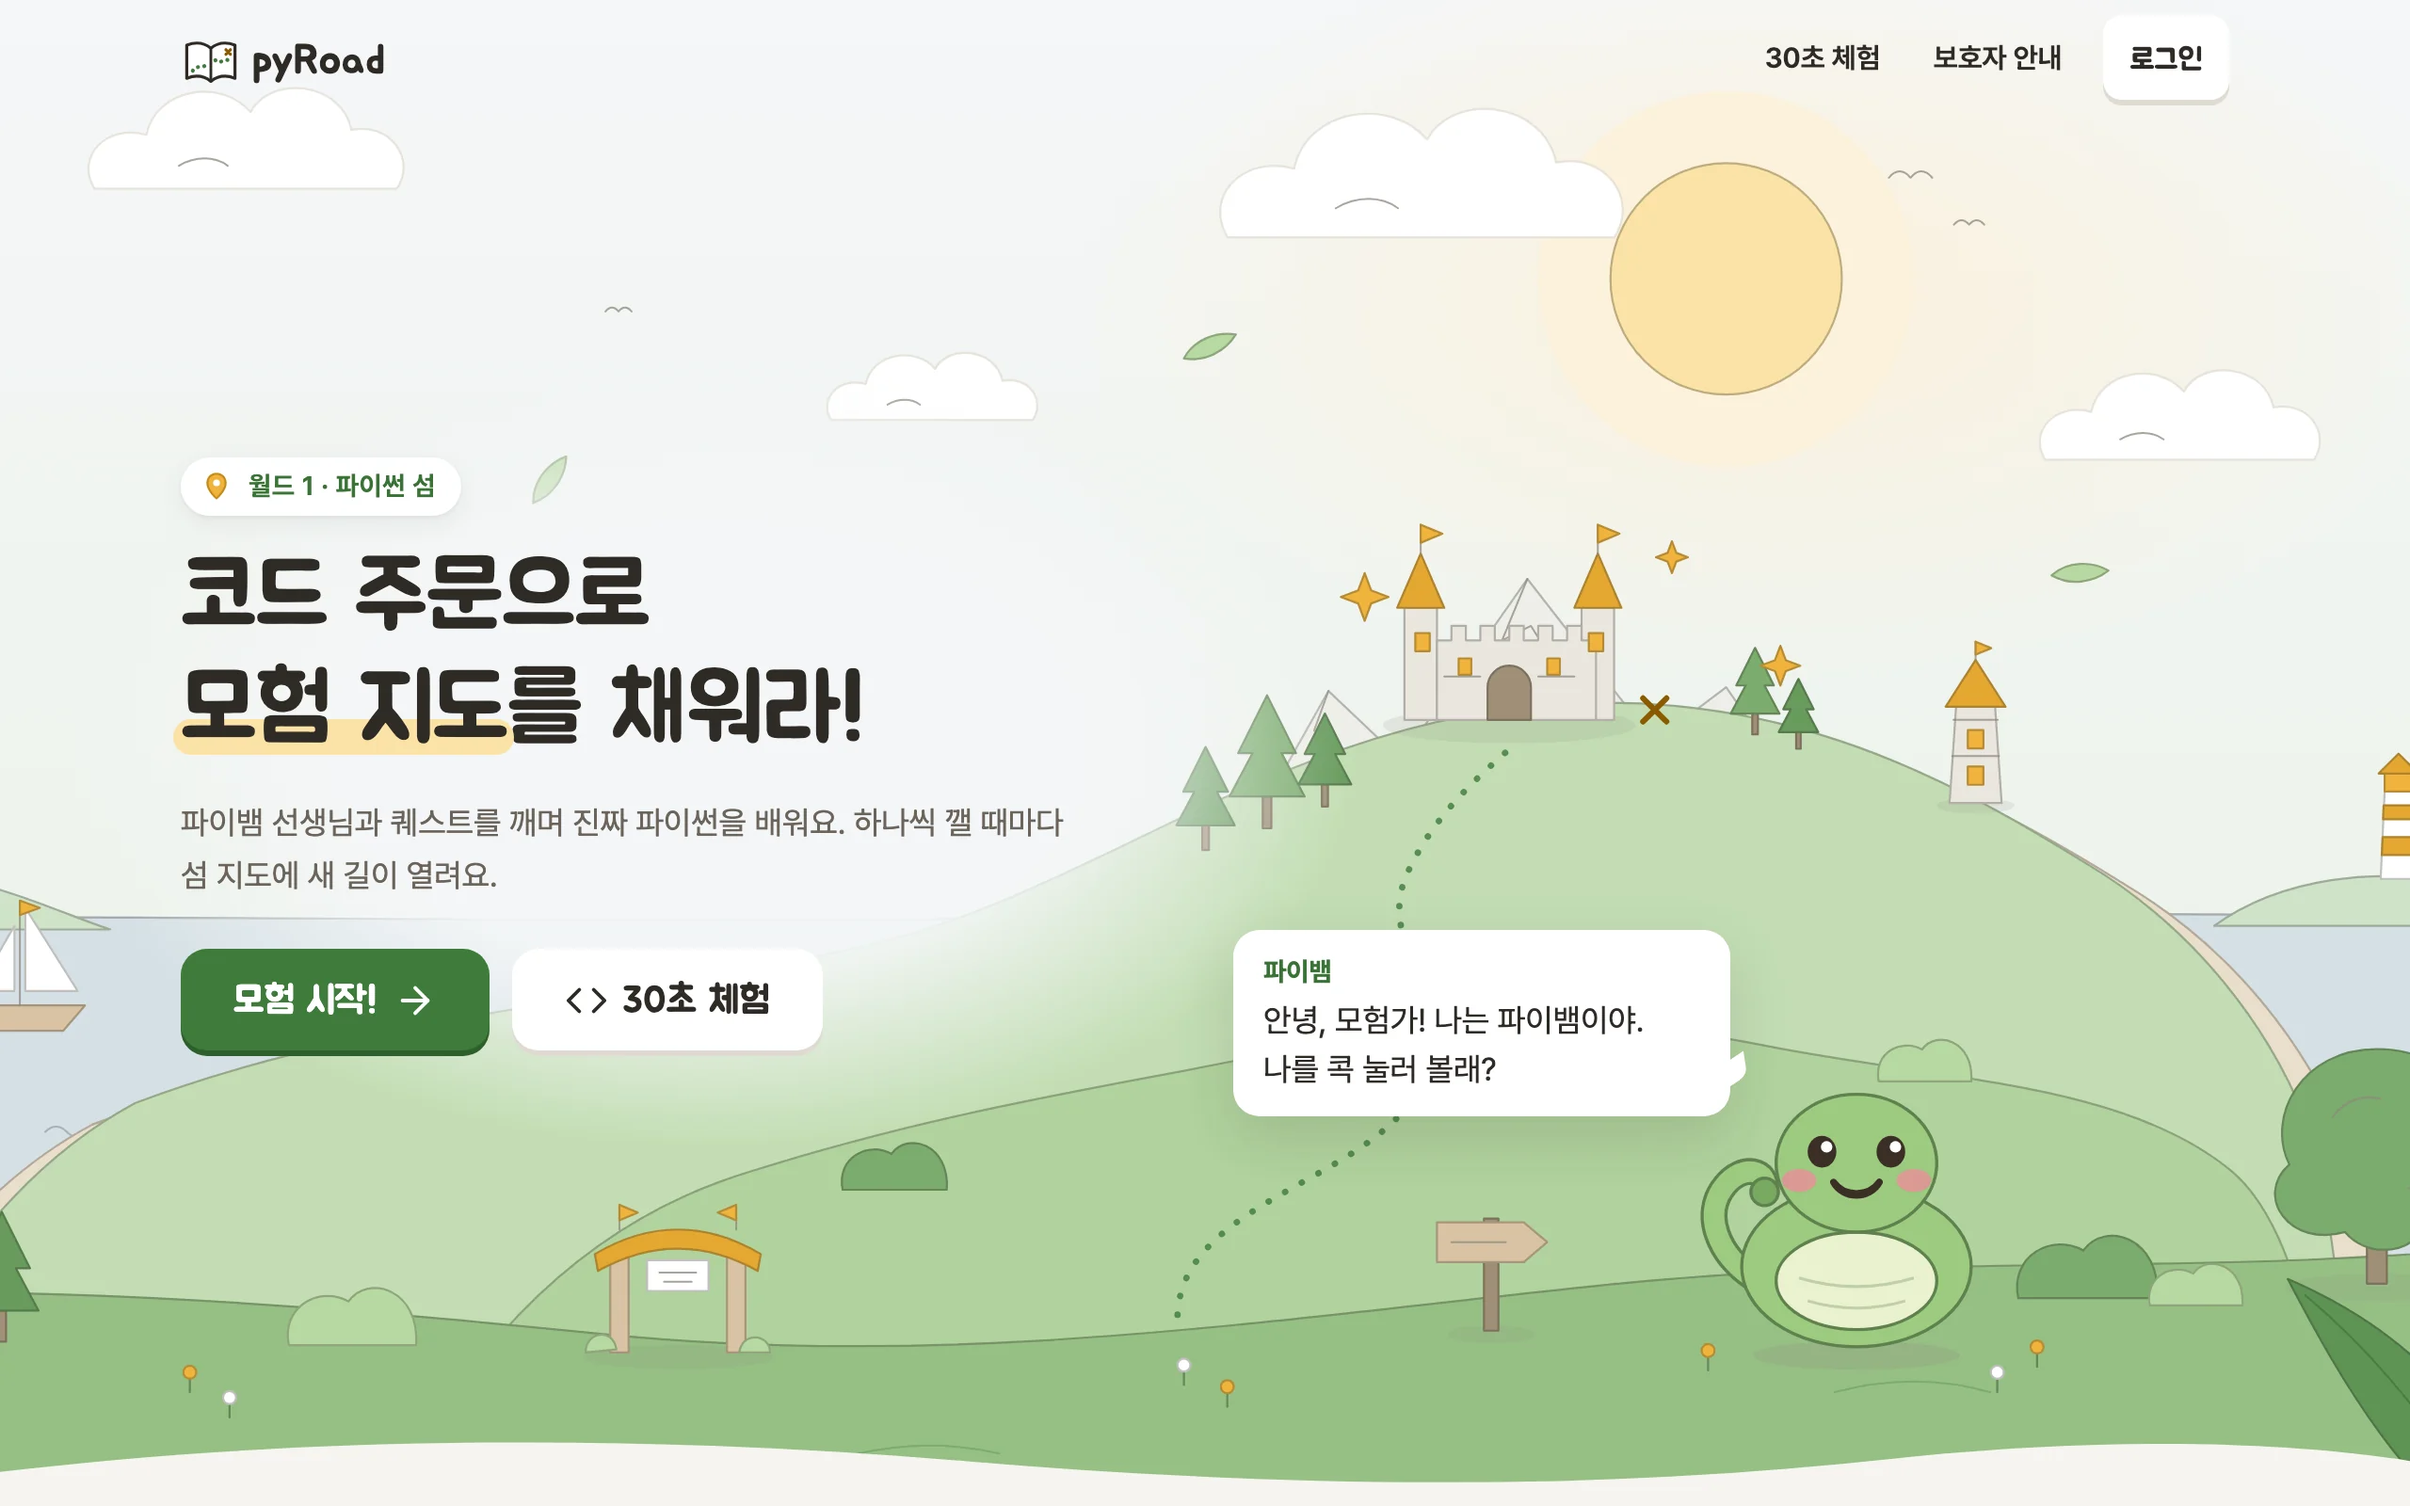
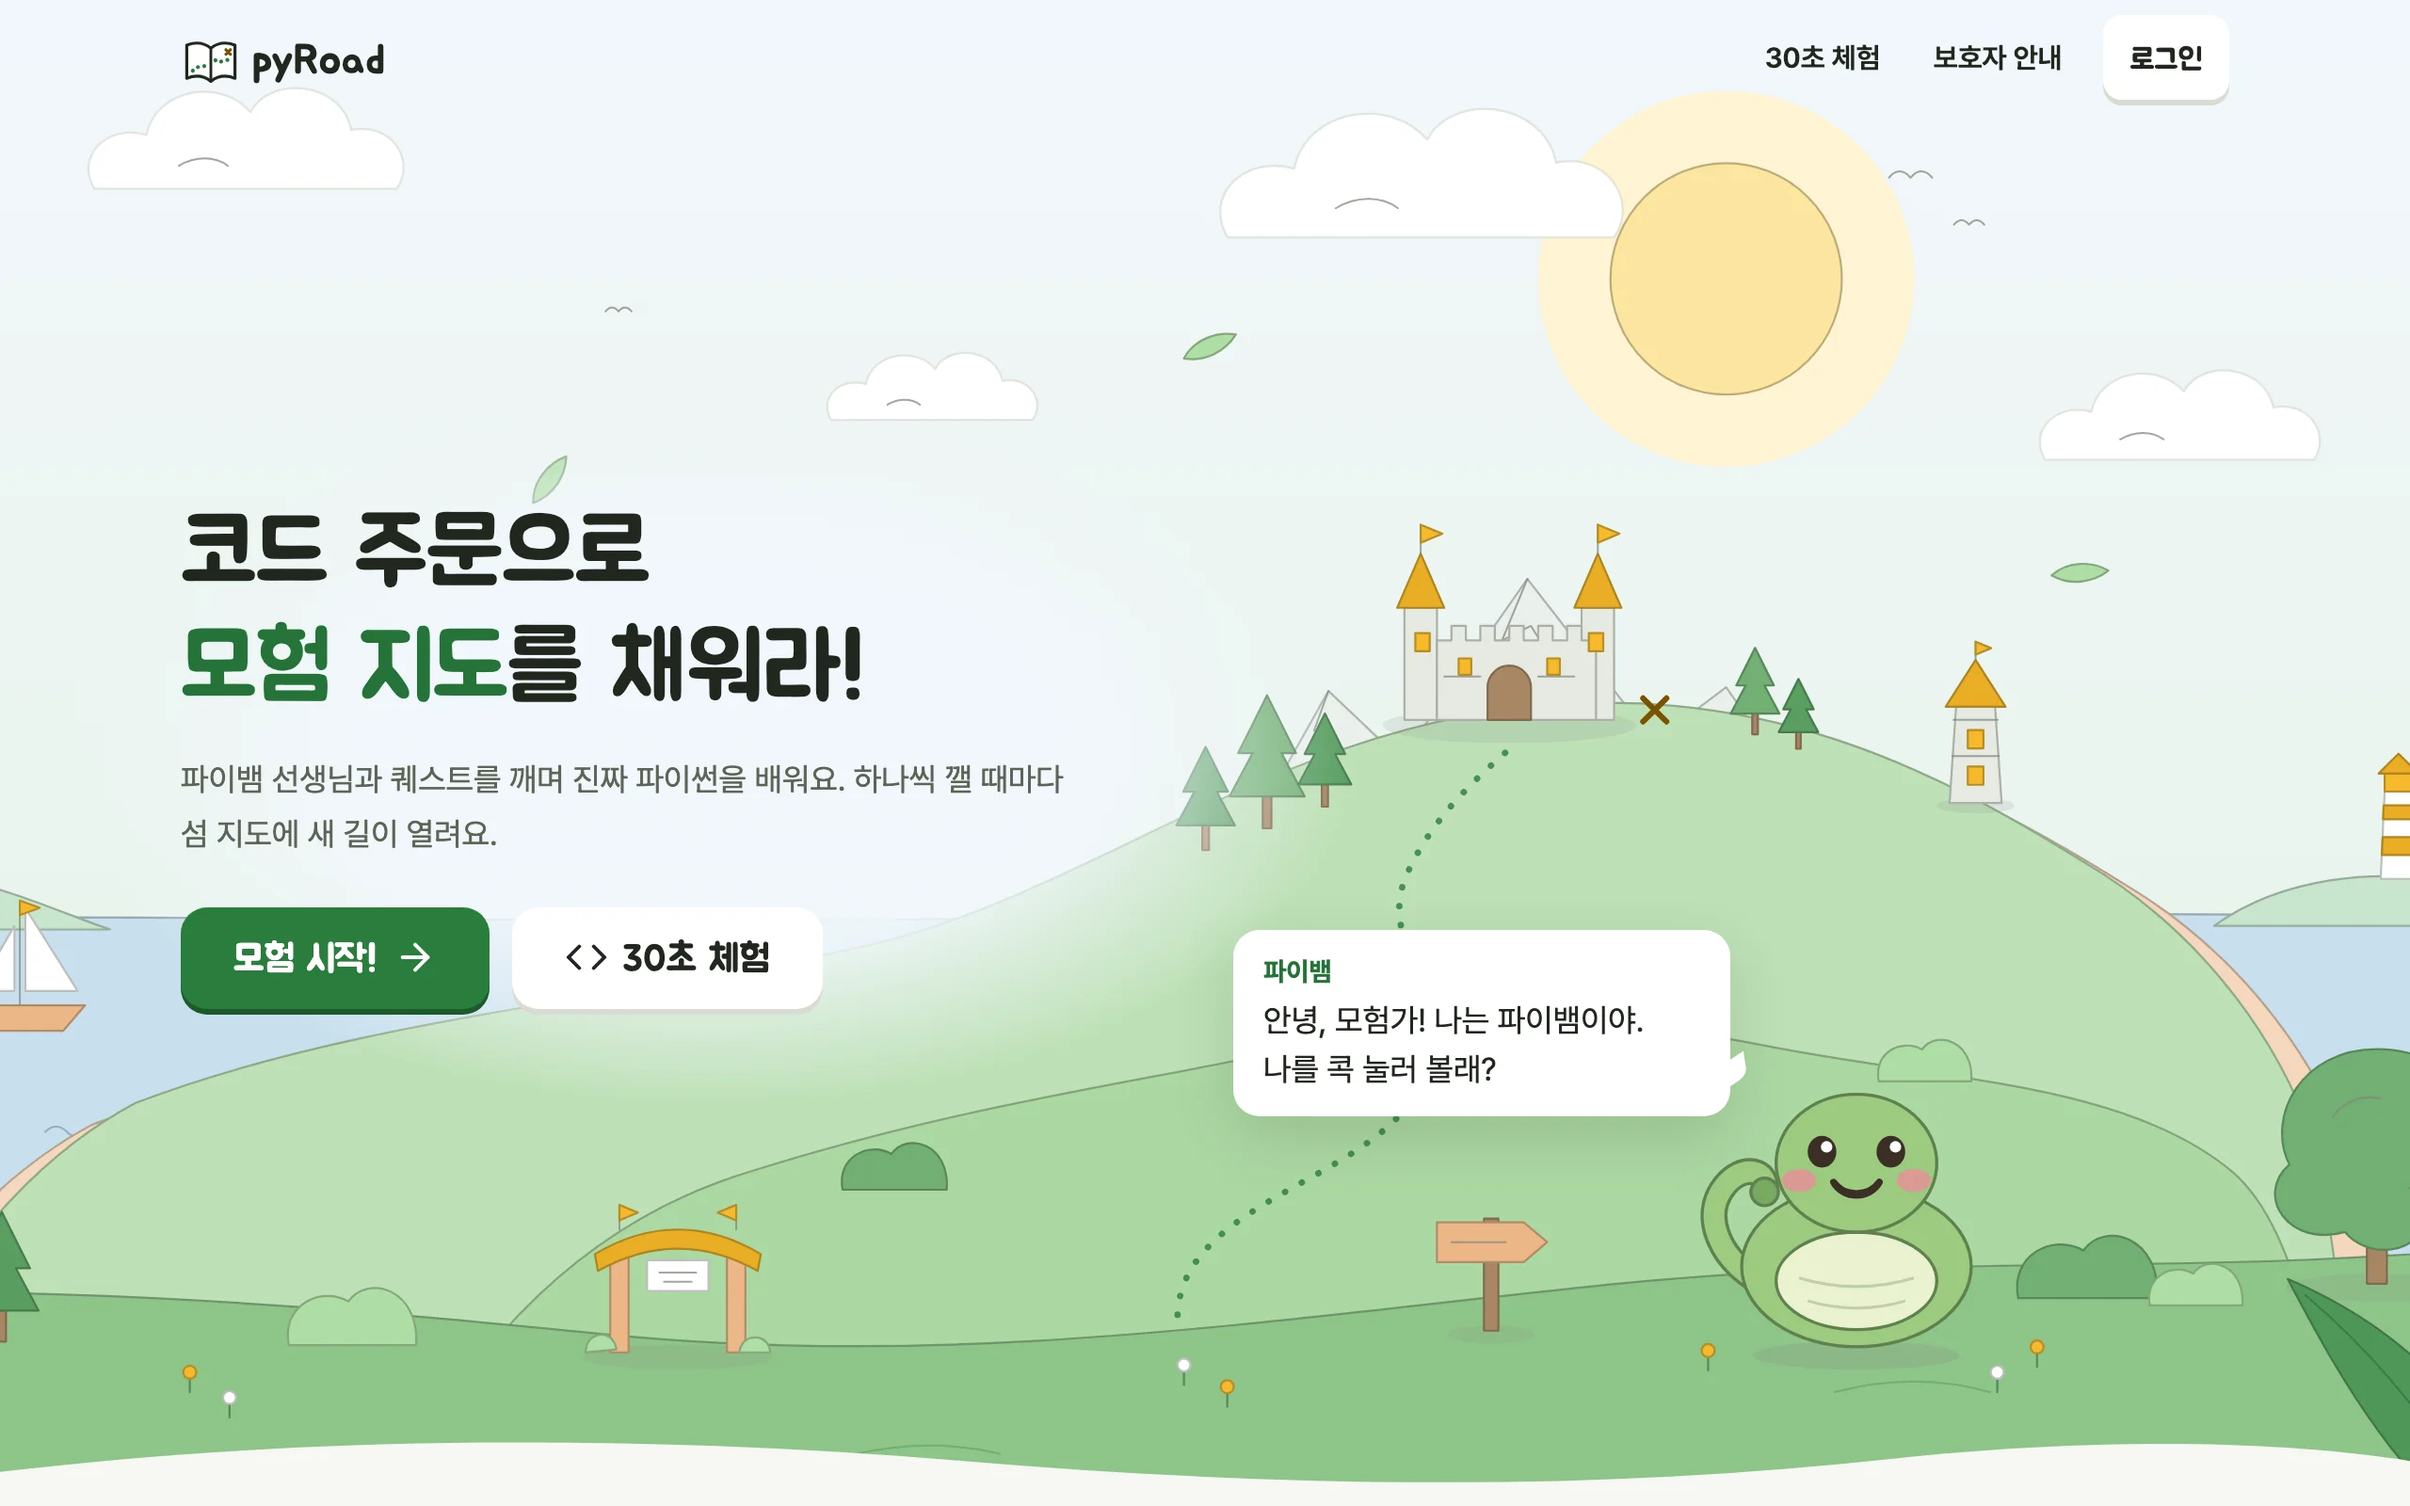
📸 docs: README 스크린샷·공지 초안 v1.1 (P13-21)
- shots:readme로 img/readme-*.webp 13장 새 디자인으로 갱신
- share-card:render 샘플 차이 없음
- docs/release/v1.1-notice.md 학생 공지 초안(게시 전)
- 계획서 P13-21 병합 전 부분 기록, PR #45, 상태 🔶

diff --git a/docs/4.upgrade-plan.md b/docs/4.upgrade-plan.md
@@ -24,7 +24,7 @@
 | 10 | 2단계(응용) 콘텐츠 | v0.8 | ✅ | 12 / 12 (+ 버그 4) · PR #38 병합·운영 적용 2026-11-15 · 태그 v0.8 |
 | 11 | 3단계(만들기) 콘텐츠 & 런타임 확장 | v0.9 | ✅ | 16 / 16 (+ 버그 9) · PR #40 병합·운영 적용 2026-11-16 · 태그 v0.9 |
 | 12 | 통합 QA·성능·출시 | v1.0 | 🟡 출시 | 12 / 14 (+ 버그 36) · 대기 2 (P12-13·14) · v1.1 후보 8 · PR #42 병합·운영 적용·태그 `v1.0.0` (2026-11-18) |
-| 13 | 디자인 다듬기: AI 슬롭 패턴 제거 & 색 정리 | v1.1 | 🟡 | 20 / 21 (+ 선택 3) · 계획 수립 2026-11-18, 방향 확정(§12-Q85~Q88) |
+| 13 | 디자인 다듬기: AI 슬롭 패턴 제거 & 색 정리 | v1.1 | 🔶 | 20 / 21 (+ 선택 3) · 계획 수립 2026-11-18, 방향 확정(§12-Q85~Q88) |
 
 > 체크박스를 체크할 때 위 표의 진행 수치와 상태도 함께 갱신하고, 문서 맨 아래 [§13 진행 기록](#13-진행-기록)에 한 줄씩 남깁니다.
 
@@ -1239,7 +1239,7 @@ v1.1 후보 (v1.0에서 넘긴 것, 2026-11-17 모음)
 작업 — 검증·출시
 - [x] **P13-19** 시각 회귀 기준 이미지 전부 갱신(`npm run test:visual`, 19화면 × 3폭 + B128 추가분) + 360/768/1280 눈 검수 한 바퀴, 전후 비교판(`docs/design/P13-before-after.md` 또는 아티팩트)으로 사용자 리뷰 — 기준 이미지 갱신 2026-11-20, 사용자 승인 2026-11-20(비교판 아티팩트 https://claude.ai/artifact/JJXrJe2GCs65M6yEoqUZxK), 후속 수정 2건: 좁은 화면 잠긴 책 표지 비율 고정·받기 버튼 코인 대비
 - [x] **P13-20** ✅ 2026-11-20 재감사·자동 검사: `impeccable detect` `side-tab` 0건, sloplint 운영 화면 54(머리말) 0건, `tokens:check`·대비 AA 테스트·`fonts:check`·`assets:check`, 전체 e2e(선택자·문구 바뀐 스펙 수정), Lighthouse Accessibility 90 이상·랜딩 바이트 예산 → **결과**: [P13-audit §8](design/P13-audit.md) — Impeccable 29 → **10건**(`side-tab` 2 → **0**, `bounce-easing` 27 → 10 = motion-guidelines §4.1 유지 목록과 일치). sloplint FAIL 171 → 161 · REFLEX 19 → 19 · WARN 16 → 13: 54(머리말) 9 → **2**(둘 다 위치 표기 "그림책 N권" — P13-08 유지 판정), 4(카드 속 카드) 1 → **0**, F2 4 → 1·F3 2 → 1·10a 3 → 2, 63은 운영 화면 0(카탈로그·관리자·테스트만). 반짝이 운영 0건(업적 DB 키 2줄 예외). 자동 검사 전부 통과(tokens·fonts·assets·vitest 4311·lint·tsc·prettier·content 드리프트·build + 랜딩 예산), DB·마이그레이션·콘텐츠 diff 0. 전체 e2e **343 통과 · 6 건너뜀 · 실패 0**(첫 실행, 스펙 수정·재실행 없음 — 글자·testid를 그대로 둔 덕). Lighthouse 차단 통과: A11y 100·100·96·100·100, 바이트 예산 안(퀘스트 JS 341.8 / 350KB), 경고 2(월드맵 Perf 77·LCP)는 기준과 같음
-- [ ] **P13-21** 마감: README 스크린샷(`shots:readme`)·공유 카드 샘플 갱신, PR(`feat/design-polish` → `main`, 360/768/1280 전후 스크린샷), 병합 뒤 태그 `v1.1.0`·배지, 공지 한 줄("화면 색이 조금 맑아졌어요")
+- [ ] **P13-21** 마감: README 스크린샷(`shots:readme`)·공유 카드 샘플 갱신, PR(`feat/design-polish` → `main`, 360/768/1280 전후 스크린샷), 병합 뒤 태그 `v1.1.0`·배지, 공지 한 줄("화면 색이 조금 맑아졌어요") — README 스크린샷·공유 카드 갱신, PR #45 생성 2026-11-20, 병합·태그 대기
 
 선택 (제안 — 하려면 체크박스를 작업으로 올림)
 - [ ] **월드 색을 화면에 은은히**: 2·3권이 제 색을 갖게 되므로 `[data-world]` 틴트를 지도 바탕·HUD 진행 막대·퀘스트 머리에 약하게 — "지금 어느 책에 있는지"가 색으로 전해짐
@@ -1952,3 +1952,4 @@ Phase 0 (결정·스파이크)
 | 2026-11-20 | 13 | P13-19 시각 회귀 기준 이미지 69장(23화면 × 360·768·1280) 갱신(`npm run test:visual -- --update-snapshots=all`, Docker linux/arm64), 비교 모드 재실행 23 통과(결정적). 360·768·1280 눈 검수 한 바퀴, 체크박스는 사용자 전후 비교 승인 대기(🔶) | Claude |
 | 2026-11-20 | 13 | P13-19 마감: 사용자 전후 비교 승인(비교판 아티팩트). 후속 수정 2건 — 좁은 가로 책 카드(책장 640px 미만·지도 아래 다음 권) 표지를 카드 높이 대신 정사각으로 왼쪽 위에 고정(잘림 시 비율 우선, §12-Q85, `worldBook.css`), 금색 버튼 안 코인 바깥 두 원에 `on-accent` 테(`game-ui.css` 한 곳 — 업적·상점·배지 받기 공통). 기준 이미지 9장 갱신(achievements·world-first 3폭, worlds-360, world-progress-1280, stage-sheet-1280), 비교 모드 23 통과 | Claude |
 | 2026-11-20 | 13 | P13-20 재감사·전체 검사: Impeccable 29 → 10(`side-tab` 0, `bounce-easing` 10 = §4.1 유지 목록), sloplint FAIL 171 → 161(54 머리말 9 → 2 위치 표기 유지, 4 카드 속 카드 1 → 0), 반짝이 운영 0. 자동 검사 전부·build 통과, DB·마이그레이션 0. e2e 343 통과·6 건너뜀·실패 0(스펙 수정 없음), Lighthouse A11y 96~100·예산 통과. 완료 기준 4줄 충족 | Claude |
+| 2026-11-20 | 13 | P13-21 병합 전 부분: `shots:readme`로 README 스크린샷 13장 새 디자인으로 갱신, `share-card:render` 차이 없음, 공지 초안 [v1.1 공지](release/v1.1-notice.md)("화면 색이 조금 맑아졌어요"), PR #45(`feat/design-polish` → `main`) 생성. 병합·태그 `v1.1.0`·배지·공지 게시 대기(🔶) | Claude |

diff --git a/docs/release/v1.1-notice.md b/docs/release/v1.1-notice.md
@@ -1,0 +1,26 @@
+# v1.1 공지 (P13-21)
+
+> - 대상: 공지를 올리는 사람(프로젝트 관리자)
+> - 상태: **문안 준비 완료(2026-11-20) · 게시는 병합·배포 뒤 사용자가**
+> - 공지는 하나(학생용)입니다. DB·약관·처리방침 변경이 없어 보호자 안내·개정 안내는 없습니다
+> - `feat/design-polish` → `main` 병합 뒤 Vercel Production 배포가 성공하고 운영 화면에서 새 색이 보이는 것을 확인한 다음 올립니다. 태그 `v1.1.0`과 순서는 상관없음
+> - 날짜를 약속하는 문장은 없습니다
+
+## 1. 올리는 방법
+
+[v1.0 공지 문서](v1.0-notice.md) §1과 같습니다(관리자 계정으로 운영 `/notice` → "공지 작성" → 제목·내용 붙여 넣기 → "게시하기", 비로그인 창·360px에서 확인). 내용은 코드 블록 안을 그대로 복사합니다.
+
+## 2. 학생 공지
+
+**제목**
+
+```text
+화면 색이 조금 맑아졌어요
+```
+
+**내용**
+
+```text
+파이로드 화면 색이 조금 맑아지고, 글자와 카드 모양이 더 깔끔해졌어요.
+하는 방법은 예전과 똑같아요. 모은 별, 경험치, 코인, 작품도 모두 그대로예요. 오늘도 즐겁게 모험해요!
+```
